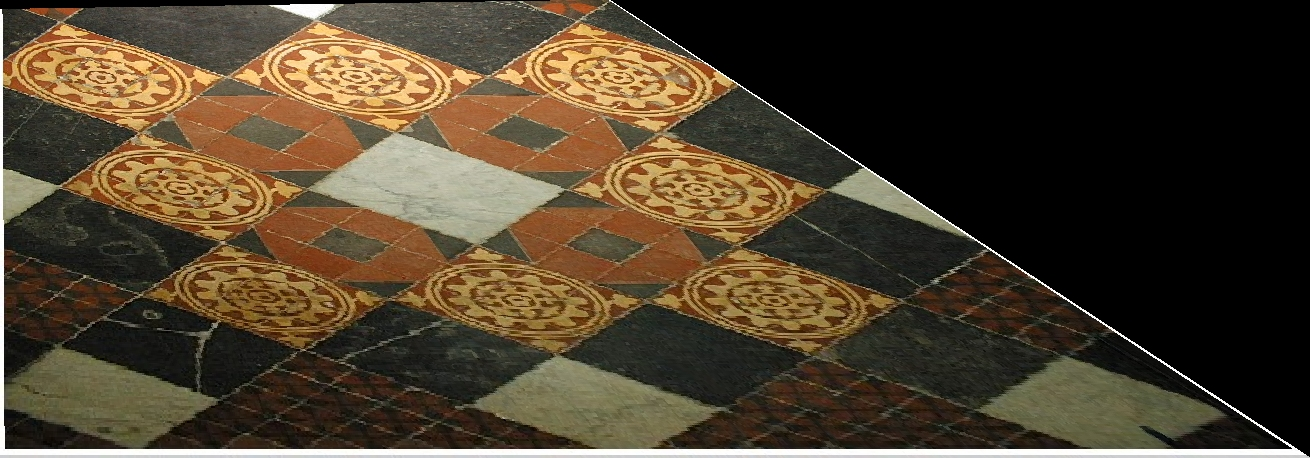
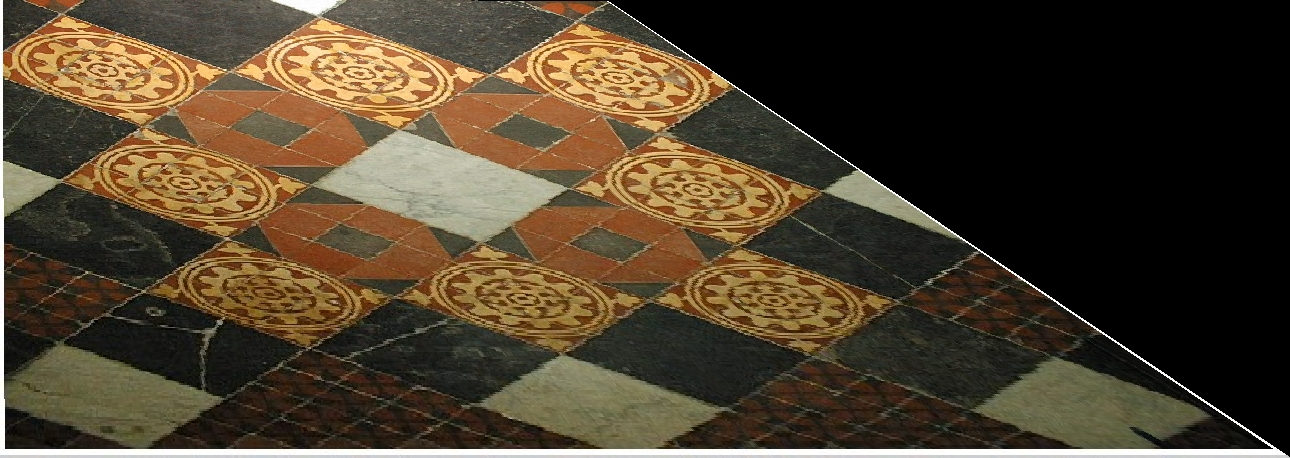
nova versao aplicada para o trabalho 2

diff --git a/work2/CVMath.cpp b/work2/CVMath.cpp
@@ -4,7 +4,7 @@
 
 #define OUTPUT_HEIGHT 458
 
-void CVMath::setupMatrix()
+void CVMath::setupMatrixM1()
 {
 	Line r1 = Points::getInstance().getR1();
 	Line r2 = Points::getInstance().getR2();
@@ -17,31 +17,146 @@ void CVMath::setupMatrix()
 	l3 << r4.x, r4.y, r4.z;
 
 	x0 = l0.cross(l1);
+	x0 << x0(0)/x0(2), x0(1)/x0(2), 1;
 	x1 = l2.cross(l3);
+	x1 << x1(0)/x1(2), x1(1)/x1(2), 1;
 
 	l =  x0.cross(x1);
 
-
-}
-
-void CVMath::generateHp()
-{
 	Hp = MatrixXd(3, 3);
 	Hp << 1, 0, 0,
 	     0, 1, 0,
-	     l(0)/l(2), l(1)/l(2), 1;
+	     l(0), l(1), l(2);
 	std::cout << Hp << std::endl;
-
-}
-
-void CVMath::invertMatrixHp()
-{
+	Vector3d l0;
+	Vector3d l1;
 	Hp_INV = MatrixXd(3, 3);
 	Hp_INV = Hp.inverse().eval();
 	std::cout << Hp_INV << std::endl;
 }
 
+void CVMath::setupMatrixM2()
+{
+	Line r1 = Points::getInstance().getR1();
+	Line r2 = Points::getInstance().getR2();
+	Line r3 = Points::getInstance().getR3();
+	Line r4 = Points::getInstance().getR4();
+	
+	l0 << r1.x, r1.y, r1.z;
+	m0 << r2.x, r2.y, r2.z;
+	l1 << r3.x, r3.y, r3.z;
+	m1 << r4.x, r4.y, r4.z;
+
+	MatrixXd LT_M = MatrixXd(2, 3);
+	LT_M << l0(0)*m0(0), l0(0)*m0(1) + l0(1)*m0(0), l0(1)*m0(1),
+			l1(0)*m1(0), l1(0)*m1(1) + l1(1)*m1(0), l1(1)*m1(1);
+
+	MatrixXd ZERO = MatrixXd(2, 1);
+	ZERO << 0, 0;
+
+	MatrixXd H_HT = LT_M.ldlt().solve(ZERO);
+	std::cout << H_HT << std::endl;
+
+	Hp = MatrixXd(3, 3);
+	Hp << H_HT(0), H_HT(1), 0,
+		H_HT(1), 1, 0,
+		0, 0, 0;
+
+	Hp_INV = MatrixXd(3, 3);
+	Hp_INV = Hp.inverse().eval();
+
+}
+
 unsigned char *  CVMath::generateImageArrayParallelLines(unsigned char * pixmapInput, int * width, int * height, int originalWidth, int originalHeight)
+{
+	//primeiro, vamos avaliar o tamanho da imagem através dos 4 cantos
+
+	VectorXd in(3);
+	VectorXd out;
+	double minX = 0.0, minY = 0.0, maxX = 0.0, maxY = 0.0;
+
+	in << 0, 0, 1;
+	out = Hp * in;
+	out /= out(2);
+
+	minX = maxX = out(0);
+	minY = maxY = out(1);
+
+	in << 0, originalHeight, 1;
+	out = Hp * in;
+	out /= out(2);
+		
+	if (out(0) < minX)
+		minX = out(0);
+	if (out(0) > maxX)
+		maxX = out(0);
+
+	if (out(1) < minY)
+		minY = out(1);
+	if (out(1) > maxY)
+		maxY = out(1);
+
+	in << originalWidth, originalHeight, 1;
+	out = Hp * in;
+	out /= out(2);
+	
+	if (out(0) < minX)
+		minX = out(0);
+	if (out(0) > maxX)
+		maxX = out(0);
+
+	if (out(1) < minY)
+		minY = out(1);
+	if (out(1) > maxY)
+		maxY = out(1);
+
+	in << originalWidth, 0, 1;
+	out = Hp * in;
+	out /= out(2);
+	
+	if (out(0) < minX)
+		minX = out(0);
+	if (out(0) > maxX)
+		maxX = out(0);
+
+	if (out(1) < minY)
+		minY = out(1);
+	if (out(1) > maxY)
+		maxY = out(1);
+
+	// calculando os valores de largura e altura da nova imagem
+	*height = OUTPUT_HEIGHT;
+	*width = (maxX - minX)*(*height)/(maxY - minY);
+
+	unsigned char * imgArray = new unsigned char[3 * (*height) * (*width)];
+
+	double ratio = (maxX - minX)/(*width);
+	//gerando nova imagem;
+	for (int i = 0; i < *height; i++)
+	{
+		for (int j = 0; j < *width; j++)
+		{
+			in << minX + j*ratio, minY + i*ratio, 1;
+			out = Hp_INV * in;
+			out /= out(2);
+			
+			int x = out(0);
+			int y = out(1);
+
+			if ((x >= 0) && (y >= 0) && (x < originalWidth) && (y < originalHeight))
+			{	
+				imgArray[3*((*width)*i + j)] = pixmapInput[3*(originalWidth*y + x)];
+				imgArray[3*((*width)*i + j) + 1] = pixmapInput[3*(originalWidth*y + x) + 1];
+				imgArray[3*((*width)*i + j) + 2] = pixmapInput[3*(originalWidth*y + x) + 2];
+			}
+		}
+	}
+
+	return imgArray;
+}
+
+
+unsigned char *  CVMath::generateImageArrayOrthoLines(unsigned char * pixmapInput, int * width, int * height, int originalWidth, int originalHeight)
 {
 	//primeiro, vamos avaliar o tamanho da imagem através dos 4 cantos
 

diff --git a/work2/QTWindow.cpp b/work2/QTWindow.cpp
@@ -50,20 +50,25 @@ void QTWindow::mousePressEvent (QMouseEvent * event)
 			case 7:
 				p8 = std::make_pair((double) event->x(), (double)event->y());
 				Points::getInstance().setR4(p7, p8);
-				counter++;
-
-				std::cout << "show time!" << std::endl;
-				
-				cvm.setupMatrix();
-				cvm.generateHp();
-				cvm.invertMatrixHp();
-
+				counter++;				
 				BYTE  * outputArrayImage;
 				int width;
 				int height;
 
-				outputArrayImage = cvm.generateImageArrayParallelLines(pixmapInput, &width, &height, imageInputWidth, imageInputHeight);
-				saveImage("../imgs/work2/retificada-retas-paralelas.jpg", outputArrayImage, width, height);
+				if (method == 0)
+				{
+					std::cout << "show time! retificacao afim" << std::endl;			
+					cvm.setupMatrixM1();
+					outputArrayImage = cvm.generateImageArrayParallelLines(pixmapInput, &width, &height, imageInputWidth, imageInputHeight);
+					saveImage("../imgs/work2/retificada-retas-paralelas.jpg", outputArrayImage, width, height);
+				}
+				else 
+				{
+					std::cout << "show time! retificacao similaridade" << std::endl;			
+					cvm.setupMatrixM2();
+					outputArrayImage = cvm.generateImageArrayOrthoLines(pixmapInput, &width, &height, imageInputWidth, imageInputHeight);
+					saveImage("../imgs/work2/retificada-ortho.jpg", outputArrayImage, width, height);
+				}
 				exit(0);
 				break;
 			default:
@@ -99,4 +104,9 @@ void QTWindow::saveImage(const char * outputFilename, BYTE * imgData, int width,
 	ilTexImage(width, height, 1, 3, IL_RGB, IL_UNSIGNED_BYTE, imgData);
   	ilEnable(IL_FILE_OVERWRITE);
 	ilSave(IL_JPG, outputFilename);
+}
+
+void QTWindow::setMethod(int m)
+{
+	method = m;
 }

diff --git a/work2/Points.h b/work2/Points.h
@@ -14,12 +14,23 @@ typedef struct _Line
 
 } Line;
 
+
+
+typedef struct _Point
+{
+    double x;
+    double y;
+    double w;
+
+} Point;
+
 class Points
 {
 
 private:
 	Points() {};
 	Line  r1, r2, r3, r4;
+    Point p1, p2, p3, p4;
 
 public:
 	static Points& getInstance()
@@ -36,11 +47,20 @@ public:
     Line getR3();
     Line getR4();
 
+    Point getP1();
+    Point getP2();
+    Point getP3();
+    Point getP4();
+
 	void setR1(std::pair <double, double> p1, std::pair <double, double> p2);
 	void setR2(std::pair <double, double> p1, std::pair <double, double> p2);
 	void setR3(std::pair <double, double> p1, std::pair <double, double> p2);
 	void setR4(std::pair <double, double> p1, std::pair <double, double> p2);
 
+    void setP1(std::pair <double, double> p);
+    void setP2(std::pair <double, double> p);
+    void setP3(std::pair <double, double> p);
+    void setP4(std::pair <double, double> p);
 };
 
 #endif

diff --git a/work2/Points.cpp b/work2/Points.cpp
@@ -21,6 +21,27 @@ Line Points::getR4()
 	return r4;
 }
 
+
+Point Points::getP1()
+{
+	return p1;
+}
+
+Point Points::getP2()
+{
+	return p2;
+}
+
+Point Points::getP3()
+{
+	return p3;
+}
+
+Point Points::getP4()
+{
+	return p4;
+}
+
 void Points::setR1(std::pair <double, double> p1, std::pair <double, double> p2)
 {
 	Vector3d l1, l2;
@@ -63,4 +84,32 @@ void Points::setR4(std::pair <double, double> p1, std::pair <double, double> p2)
 	r4.x = res(0);
 	r4.y = res(1);
 	r4.z = res(2);
+}
+
+void Points::setP1(std::pair <double, double> p)
+{
+	p1.x = p.first;
+	p1.y = p.second;
+	p1.w = 1;
+}
+
+void Points::setP2(std::pair <double, double> p)
+{
+	p2.x = p.first;
+	p2.y = p.second;
+	p2.w = 1;
+}
+
+void Points::setP3(std::pair <double, double> p)
+{
+	p3.x = p.first;
+	p3.y = p.second;
+	p3.w = 1;
+}
+
+void Points::setP4(std::pair <double, double> p)
+{
+	p4.x = p.first;
+	p4.y = p.second;
+	p4.w = 1;
 }

diff --git a/work2/CVMath.h b/work2/CVMath.h
@@ -21,6 +21,9 @@ private:
 	Vector3d l2;
 	Vector3d l3;
 
+	Vector3d m0;
+	Vector3d m1;
+
 	Vector3d x0;
 	Vector3d x1;
 
@@ -30,11 +33,10 @@ private:
 	MatrixXd Hp_INV;
 
 public:
-	void setupMatrix();
-	void generateHp();
-	void invertMatrixHp();
+	void setupMatrixM1();
+	void setupMatrixM2();
 	unsigned char * generateImageArrayParallelLines(unsigned char * pixmapInput, int * width, int * height, int originalWidth, int originalHeight);
-	
+	unsigned char * generateImageArrayOrthoLines(unsigned char * pixmapInput, int * width, int * height, int originalWidth, int originalHeight);
 };
 
 #endif	

diff --git a/work2/main.cpp b/work2/main.cpp
@@ -5,13 +5,14 @@ int main(int argc, char ** argv)
 {
 	QApplication app(argc, argv);
 
-  	if (argc != 2)
+  	if (argc != 3)
   	{
-  		std::cout << "usage: "<<  argv[0] << " <imagePath>" << std::endl;
+  		std::cout << "usage: "<<  argv[0] << " <imagePath> <metodo retas paralelas (0) | orthogonais (1)>" << std::endl;
   		return -1;
   	}
 
 	QTWindow * window = new QTWindow();
+	window->setMethod(atoi(argv[2]));
  	window->setupWindow(window, argv[0], argv[1]);
 	
 	app.exec();

diff --git a/work2/QTWindow.h b/work2/QTWindow.h
@@ -15,6 +15,7 @@ class QTWindow: public QLabel
 private:   
   int imageInputWidth;
   int imageInputHeight;
+  int method;
   BYTE * pixmapInput;
 
 public:    
@@ -24,6 +25,7 @@ public:
 	void mousePressEvent (QMouseEvent * event); 
 	void setupWindow(QTWindow * window, const char * title, const char * picturePath);
 	void saveImage(const char * outputFilename, BYTE * imgData, int width, int height);
+	void setMethod(int m);
 
 };
 
